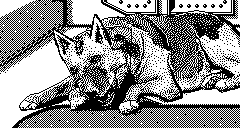
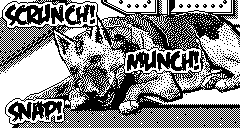
Added support for multiple items having the same name ("Medicine Cabinet" and "Gun Cabinet" or "Gun Powder" and "Dart Gun"), as long as they are in different locations.
Updated the picture of the dog eating meat to add some cartoony texts (Scrunch, Munch, Snap!).

The gun cabinet can now be opened, giving access to the dart gun.

Changed region(s): [[0.0, 0.0, 0.4083, 0.25], [0.4958, 0.3438, 0.8458, 0.5938], [0.0, 0.75, 0.2917, 0.9688]]

diff --git a/code/game_data.c b/code/game_data.c
@@ -53,8 +53,9 @@ keyword gWordsArray[] =
     { "BOTTLE", e_ITEM_SmallBottle          },  // e_ITEM_SmallBottle       
     { "FUSE",   e_ITEM_Fuse                 },  // e_ITEM_Fuse                  
     { "GUN",    e_ITEM_GunPowder            },  // e_ITEM_GunPowder             
+    { "GUN",    e_ITEM_DartGun              },  // e_ITEM_DartGun             
     { "KEYS",   e_ITEM_Keys                 },  // e_ITEM_Keys                  
-    { "NEWSPAPER",e_ITEM_Newspaper            },  // e_ITEM_Newspaper             
+    { "NEWSPAPER",e_ITEM_Newspaper          },  // e_ITEM_Newspaper             
     { "BOMB",   e_ITEM_Bomb                 },  // e_ITEM_Bomb                  
     { "PISTOL", e_ITEM_Pistol               },  // e_ITEM_Pistol                
     { "BULLETS",e_ITEM_Bullets              },  // e_ITEM_Bullets           
@@ -62,6 +63,7 @@ keyword gWordsArray[] =
     { "MAP"    ,e_ITEM_UnitedKingdomMap     },
     { "CURTAIN",e_ITEM_Curtain              },  // e_ITEM_Curtain
     { "CABINET",e_ITEM_Medicinecabinet      },  // e_ITEM_Medicinecabinet
+    { "CABINET",e_ITEM_GunCabinet           },  // e_ITEM_Medicinecabinet
     { "PILLS"  ,e_ITEM_SedativePills        },  // e_ITEM_SedativePills
     { "SEDATIVES",e_ITEM_SedativePills      },  // e_ITEM_SedativePills
 

diff --git a/code/input_system.c b/code/input_system.c
@@ -38,6 +38,7 @@ unsigned char ParseInputBuffer()
 	unsigned char wordId;
 	char car;
 	char done;
+    char keepSearching;
 	keyword* keywordPtr;
 	char* separatorPtr;
 	char* inputPtr = gInputBuffer;
@@ -79,18 +80,20 @@ unsigned char ParseInputBuffer()
 			// Now that we have identified the begining and end of the word, check if it's in our vocabulary list
 			gWordBuffer[gWordCount]=e_WORD_COUNT_;
 			keywordPtr = gWordsArray;
-			while (keywordPtr->word)   // The list is terminated by a null pointer entry
+            keepSearching = 1;
+			while (keepSearching && keywordPtr->word)   // The list is terminated by a null pointer entry
 			{
 				// Right now we do a full comparison of the words, but technically we could restrict to only a few significant characters.
 				if (strcmp(inputPtr,keywordPtr->word)==0)
 				{
 					// Found the word in the list, we mark down the token id and continue searching
-					gWordBuffer[gWordCount] = keywordPtr->id;
-					gWordCount++;
-					break;
+                    unsigned char itemId = keywordPtr->id;
+					gWordBuffer[gWordCount] = itemId;
+                    keepSearching = !ProcessFoundToken(itemId);
 				}
 				++keywordPtr;
 			}
+			gWordCount++;
 			inputPtr = separatorPtr+1;
 		}
 	}

diff --git a/code/game_enums.h b/code/game_enums.h
@@ -117,8 +117,10 @@
 #define	e_ITEM_ChemistryRecipes   	 43         // a sheet of paper with a few recipes on things to build
 #define	e_ITEM_UnitedKingdomMap   	 44         // the map of the UK in the library
 #define e_ITEM_Curtain               45         // a thick curtain
-#define	e_ITEM_COUNT_ 				 46         //  ----- END MARKER - Free until 127, after are action words
-#define e_ITEM_CURRENT               46         // For the scripting, so the current objects can be accessed from various scripts
+#define e_ITEM_GunCabinet            46         // a gun cabinet
+#define e_ITEM_DartGun               47         // a dart gun
+#define	e_ITEM_COUNT_ 				 48         //  ----- END MARKER - Free until 127, after are action words
+#define e_ITEM_CURRENT               48         // For the scripting, so the current objects can be accessed from various scripts
 // For practical reasons we reuse the item ids in the list of words followed by the actual instructions
 // Directions: These have to be in the same order as the DIRECTIONS enum
 #define	e_WORD_NORTH                 128        // = e_ITEM_COUNT_

diff --git a/code/game_main.c b/code/game_main.c
@@ -179,6 +179,27 @@ WORDS ProcessContainerAnswer()
     return gWordBuffer[0];
 }
 
+char ProcessFoundToken(WORDS wordId)
+{
+    if (wordId < e_ITEM_COUNT_)
+    {
+        // It's an item
+        if (gItems[wordId].location == e_LOCATION_INVENTORY)
+        {
+            return 1;
+        }
+        if (gItems[wordId].location == gCurrentLocation)
+        {
+            return 1;
+        }
+    }
+    else
+    {
+        return 1;
+    }
+    return 0;
+}
+
 
 char ItemCheck(unsigned char itemId)
 {

diff --git a/code/outro_main.c b/code/outro_main.c
@@ -24,6 +24,10 @@ WORDS ProcessPlayerNameAnswer()
 	return e_WORD_QUIT;
 }
 
+char ProcessFoundToken(WORDS wordId)
+{
+    return 1;
+}
 
 void PrintStatusMessageAsm()
 {
